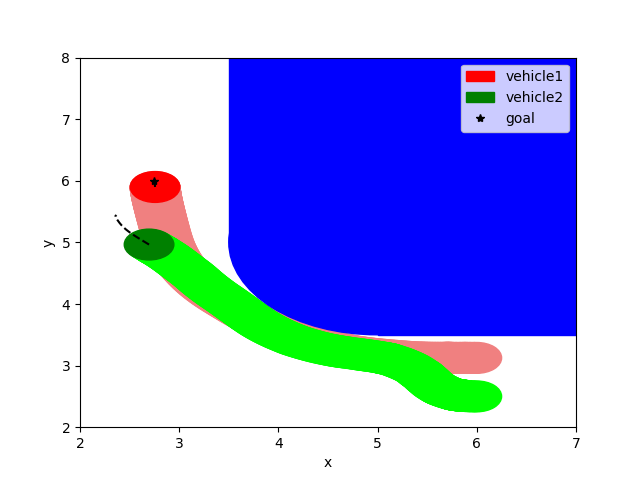
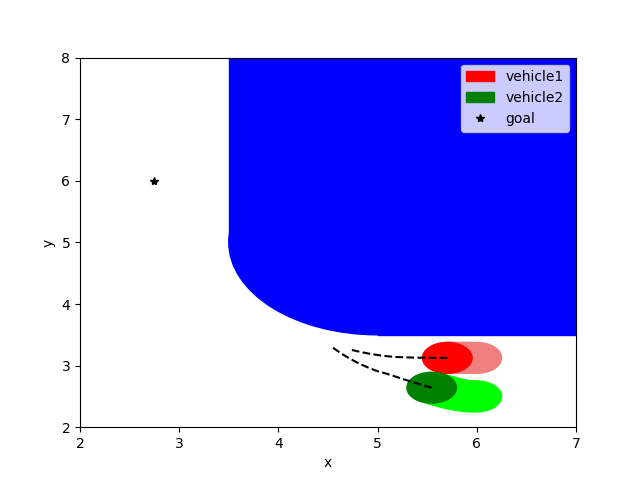
no coll, no trail pen

Changed region(s): [[0.1875, 0.3438, 0.75, 0.8438]]

diff --git a/code/simple_mpc.py b/code/simple_mpc.py
@@ -1,0 +1,310 @@
+import numpy as np
+import cvxpy as cp
+import matplotlib.pyplot as plt
+
+from functools import partial
+import jax
+import jax.numpy as jnp
+import sys
+
+"""
+Compute MPC optimal trajectories for a single vehicle completing a left turn.
+
+State: [x, y, theta (heading)]
+Control: [v, phi (steer angle)]
+"""
+
+# All distance units in meters
+
+@partial(jax.jit, static_argnums=(0,))
+@partial(jax.vmap, in_axes=(None, 0, 0))
+def affinize(f, s, u):
+    """Affinize the function `f(s, u)` around `(s, u)`."""
+
+    A, B = jax.jacobian(f, [0, 1])(s, u)
+    c = f(s, u) - A @ s - B @ u
+    return A, B, c
+
+class Circle:
+    def __init__(self, x, y, rad):
+        self.center = jnp.array([x, y])
+        self.rad = rad
+
+class MPC:
+    def __init__(self, P, Q, R, N, s_goal, eps = 1e-1):
+        self.P = P
+        self.Q = Q
+        self.R = R
+        self.N = N
+        self.s_goal = s_goal
+
+        self.eps = eps # tolerance for stopping criterion
+        self.v1pos = None
+        self.v2pos = None
+
+    def set_time(self, T, dt):
+        self.T = T
+        self.dt = dt
+
+    def set_dynamics(self, vm, pm, L):
+        self.vm = vm
+        self.pm = pm
+        self.L = L
+
+    def track_circle(self, x, y, rad):
+        self.circle = Circle(x, y, rad)
+
+    def dynamics(self, s, u):
+        """
+        Computes discrete non-linear dynamics for a simple car model.
+        Inputs:
+            s : state optimization variable [x, y, theta]
+            u : control optimization variable [v, phi]
+            dt : discrete time interval
+        """
+        x, y, the = s
+        v, phi = u
+
+        ds = jnp.array([
+            v*jnp.cos(the),
+            v*jnp.sin(the),
+            v*jnp.tan(phi)/self.L
+        ])
+
+        s_next = s + self.dt*ds
+        return s_next
+    
+    def inner_boundary(self, s):
+        """
+        Computes distance to inner track boundary.
+        Inputs:
+            s : vehicle state [x, y, theta]
+        """
+
+        ds = jnp.array([
+            jnp.linalg.norm(s[:2] - self.circle.center) - self.circle.rad - self.L/2
+        ])
+        return ds
+    
+    def v1_coll(self, s):
+        assert self.v2pos is not None
+        tol = 1/10
+
+        dc = jnp.array([
+            jnp.linalg.norm(s[:2] - self.v2pos) - self.L
+        ])
+        return dc
+    
+    def v2_coll(self, s):
+        assert self.v1pos is not None
+        tol = 1/10
+
+        dc = jnp.array([
+            jnp.linalg.norm(s[:2] - self.v1pos) - self.L
+        ])
+        return dc
+    
+    def v1_penalty(self, s):
+        ds = jnp.array([
+            jnp.linalg.norm(s[:2] - self.v2pos)
+        ])
+        return ds
+    
+    def v2_penalty(self, s):
+        ds = jnp.array([
+            jnp.linalg.norm(s[:2] - self.v1pos)
+        ])
+        return ds
+
+    def leader(self):
+        v1cc = np.array(self.v1pos - self.circle.center)
+        v1s1 = 7 - np.clip(self.v1pos[0], 5, 7)
+        v1s2 = np.clip(self.v1pos[1], 5, 6.5) - 5
+        if v1cc[0] < 0:
+            if v1cc[1] < 0:
+                v1c = self.circle.rad*np.arctan(v1cc[0] / v1cc[1])
+            else:
+                v1c = self.circle.rad*np.pi/2
+        else:
+            v1c = 0
+
+        v2cc = np.array(self.v2pos - self.circle.center)
+        v2s1 = 7 - np.clip(self.v2pos[0], 5, 7)
+        v2s2 = np.clip(self.v2pos[1], 5, 6.5) - 5
+        if v2cc[0] < 0: 
+            if v2cc[1] < 0:
+                v2c = self.circle.rad*np.arctan(v2cc[0] / v2cc[1])
+            else:
+                v2c = self.circle.rad*np.pi/2
+        else:
+            v2c = 0
+
+        if v2s1 + v2c + v2s2 < v1s1 + v1c + v1s2:
+            return 1
+        else:
+            return 2
+
+    def visualize(self, s1, a1, s2, a2):
+        """
+        Visualize executed MPC path with goal and track boundary.
+        """
+        fig, ax = plt.subplots()
+
+        # Visualize data
+        for i in np.arange(s1.shape[0]-1):
+            # ax.plot(s1[:, 0, 0], s1[:, 0, 1], 'r', label = "vehicle1")
+            # ax.plot(s2[:, 0, 0], s2[:, 0, 1], 'g', label = "vehicle2")
+            ax.add_patch(plt.Circle((s1[i, 0, 0], s1[i, 0, 1]), self.L/2, color = 'lightcoral'))
+            ax.add_patch(plt.Circle((s2[i, 0, 0], s2[i, 0, 1]), self.L/2, color = 'lime'))
+        ax.add_patch(plt.Circle((s1[-1, 0, 0], s1[-1, 0, 1]), self.L/2, color = 'r', label = "vehicle1"))
+        ax.add_patch(plt.Circle((s2[-1, 0, 0], s2[-1, 0, 1]), self.L/2, color = 'g', label = "vehicle2"))
+        ax.plot(self.s_goal[0], self.s_goal[1], '*k', label = "goal")
+        ax.plot(s1[-1, :, 0], s1[-1, :, 1], '--', color = 'k')
+        ax.plot(s2[-1, :, 0], s2[-1, :, 1], '--', color = 'k')
+        
+        # Format plot
+        ax.set_xlabel("x")
+        ax.set_ylabel("y")
+        ax.add_patch(plt.Circle(np.array(self.circle.center), self.circle.rad, color = 'b'))
+        ax.add_patch(plt.Rectangle((3.5, 5), 3, 3, color = 'b'))
+        ax.add_patch(plt.Rectangle((5, 3.5), 2, 3, color = 'b'))
+        ax.add_patch(plt.Rectangle((5, 5), 2, 3, color = 'b'))
+        ax.set_xlim(2, 7)
+        ax.set_ylim(2, 8)
+        ax.legend(loc = "upper right")
+
+        fig.savefig("./traj.png")
+        plt.close()
+
+    def scp(self, s_mpc, a_mpc, s0, v1, ahead, p = 0.2, Nscp = 5):
+        solve = True
+
+        # --------- Zero Init. ----------
+        s_prev = np.zeros(s_mpc.shape); s_prev[0, :] = s0 # initial position
+        a_prev = np.zeros(a_mpc.shape)
+        for i in np.arange(self.N):
+            s_prev[i+1] = self.dynamics(s_prev[i], a_prev[i]) # initialize a feasible trajectotry
+        # ----------           ----------
+        
+        for _ in np.arange(Nscp):
+            Ad, Bd, cd = affinize(self.dynamics, s_prev[:-1], a_prev) # Dynamics
+            Ad, Bd, cd = np.array(Ad), np.array(Bd), np.array(cd)
+
+            Ab, __, cb = affinize(lambda s, __ : self.inner_boundary(s), s_prev, jnp.concatenate((a_prev, a_prev[-1:]))) # Track boundary
+            Ab, cb = np.array(Ab), np.array(cb)
+
+            cost = cp.quad_form(s_mpc[-1]-self.s_goal, self.P) + cp.sum([cp.quad_form(s_mpc[i]-self.s_goal, self.Q) + cp.quad_form(a_mpc[i], self.R) for i in np.arange(self.N)])
+            
+            cons = [s_mpc[0] == s0] # IC
+            cons += [cp.abs(a_mpc[:, 0]) <= self.vm] + [cp.abs(a_mpc[:, 1]) <= self.pm] # Control space
+            cons += [s_mpc[i+1] == Ad[i] @ s_mpc[i] + Bd[i] @ a_mpc[i] + cd[i] for i in np.arange(self.N)] # Dynamics
+            cons += [Ab[i] @ s_mpc[i] + cb[i] >= 0 for i in np.arange(self.N+1)] # Track limtis 
+            cons += [cp.norm_inf(s_mpc - s_prev) <= p] + [cp.abs(a_mpc - a_prev) <= np.array([[1, 0.2]])] # Trust regions
+
+            prob = cp.Problem(cp.Minimize(cost), cons)
+            prob.solve(solver = cp.SCS)
+
+            if prob.status == "optimal" or prob.status == "optimal_inaccurate":
+                s_prev = s_mpc.value
+                a_prev = a_mpc.value
+            else:
+                solve = False
+                break
+        
+        return s_mpc.value, a_mpc.value, solve
+
+    def do_mpc(self, s1_init, s2_init):
+        n = self.P.shape[0]
+        m = self.R.shape[0]
+        sim_steps = int(self.T / self.dt)
+
+        s01 = cp.Parameter(n,); s01.value = s1_init
+        s02 = cp.Parameter(n,); s02.value = s2_init
+
+        s_mpc = cp.Variable((self.N+1, n)) # mpc variables
+        a_mpc = cp.Variable((self.N, m))
+
+        s1 = np.zeros((sim_steps, self.N+1, n)) # car 1: table for all mpc sims
+        a1 = np.zeros((sim_steps, self.N, m))
+        s2 = np.zeros(s1.shape) # car 2: table for all mpc sims
+        a2 = np.zeros(a1.shape)
+
+        for k in np.arange(sim_steps): 
+            if np.max(np.abs(s01.value - self.s_goal)) < self.eps or np.max(np.abs(s02.value - self.s_goal)) < self.eps:
+                s1 = s1[:k]
+                a1 = a1[:k]
+                s2 = s2[:k]
+                a2 = a2[:k]
+
+                print("Reached solution!")
+                break
+
+            self.v1pos = s01.value[:2] # store xy pos for collision check
+            self.v2pos = s02.value[:2] 
+            leader = self.leader()
+
+            s1[k], a1[k], solve1 = self.scp(
+                s_mpc, 
+                a_mpc, 
+                s01.value,
+                v1 = True,
+                ahead = leader == 1) # rollout vehicle 1
+            s2[k], a2[k], solve2 = self.scp(
+                s_mpc, 
+                a_mpc, 
+                s02.value,
+                v1 = False,
+                ahead = leader == 2) # rollout vehicle 2
+
+            s01.value = np.array(self.dynamics(s01.value, a1[k, 0])) if solve1 else s01.value # execute dynamics
+            s02.value = np.array(self.dynamics(s02.value, a2[k, 0])) if solve2 else s02.value
+            if k > 0:
+                self.visualize(s1[:k], a1[:k], s2[:k], a2[:k])
+
+            if not solve1 or not solve2:
+                print("CVXPY failed: infeasible solution at step " + str(k))
+                break
+            elif np.linalg.norm(s01.value[:2] - s02.value[:2]) < self.L: # Collision!
+                        s1 = s1[:k]
+                        a1 = a1[:k]
+                        s2 = s2[:k]
+                        a2 = a2[:k]
+
+                        print("Vehicle Collision at step " + str(k))
+                        break
+            else:
+                print("Vehicle1: ", s01.value, " Vehicle2: ", s02.value)
+        self.visualize(s1, a1, s2, a2)
+    
+def main():
+    n = 3 # state, control dimension 
+    m = 2
+    P = 2e4*np.eye(n) # cost-to-go approx.
+    Q = np.eye(n) # state stage cost
+    R = np.eye(m) # control stage cost
+
+    N = 30
+    T = 10
+    s_goal = np.array([2.75, 6, np.pi/2]) 
+    s1_init = np.array([5.5, 3.125, np.pi])
+    s2_init = np.array([6, 2.5, np.pi])
+
+    L = 1/2 # car width (approx. as a circle)
+    vm = 10 # maximum velocity
+    pm = np.pi/4 # maximum steering angle
+    
+    mpc = MPC(P, Q, R, N, s_goal)
+    
+    # Configure optimization
+    mpc.set_time(T, dt = 0.01)
+    mpc.set_dynamics(vm, pm, L)
+    mpc.track_circle(5, 5, 1.5)
+
+    # Execute
+    mpc.do_mpc(s1_init, s2_init)
+
+if __name__ == "__main__":
+    main() 
+
+        
+
